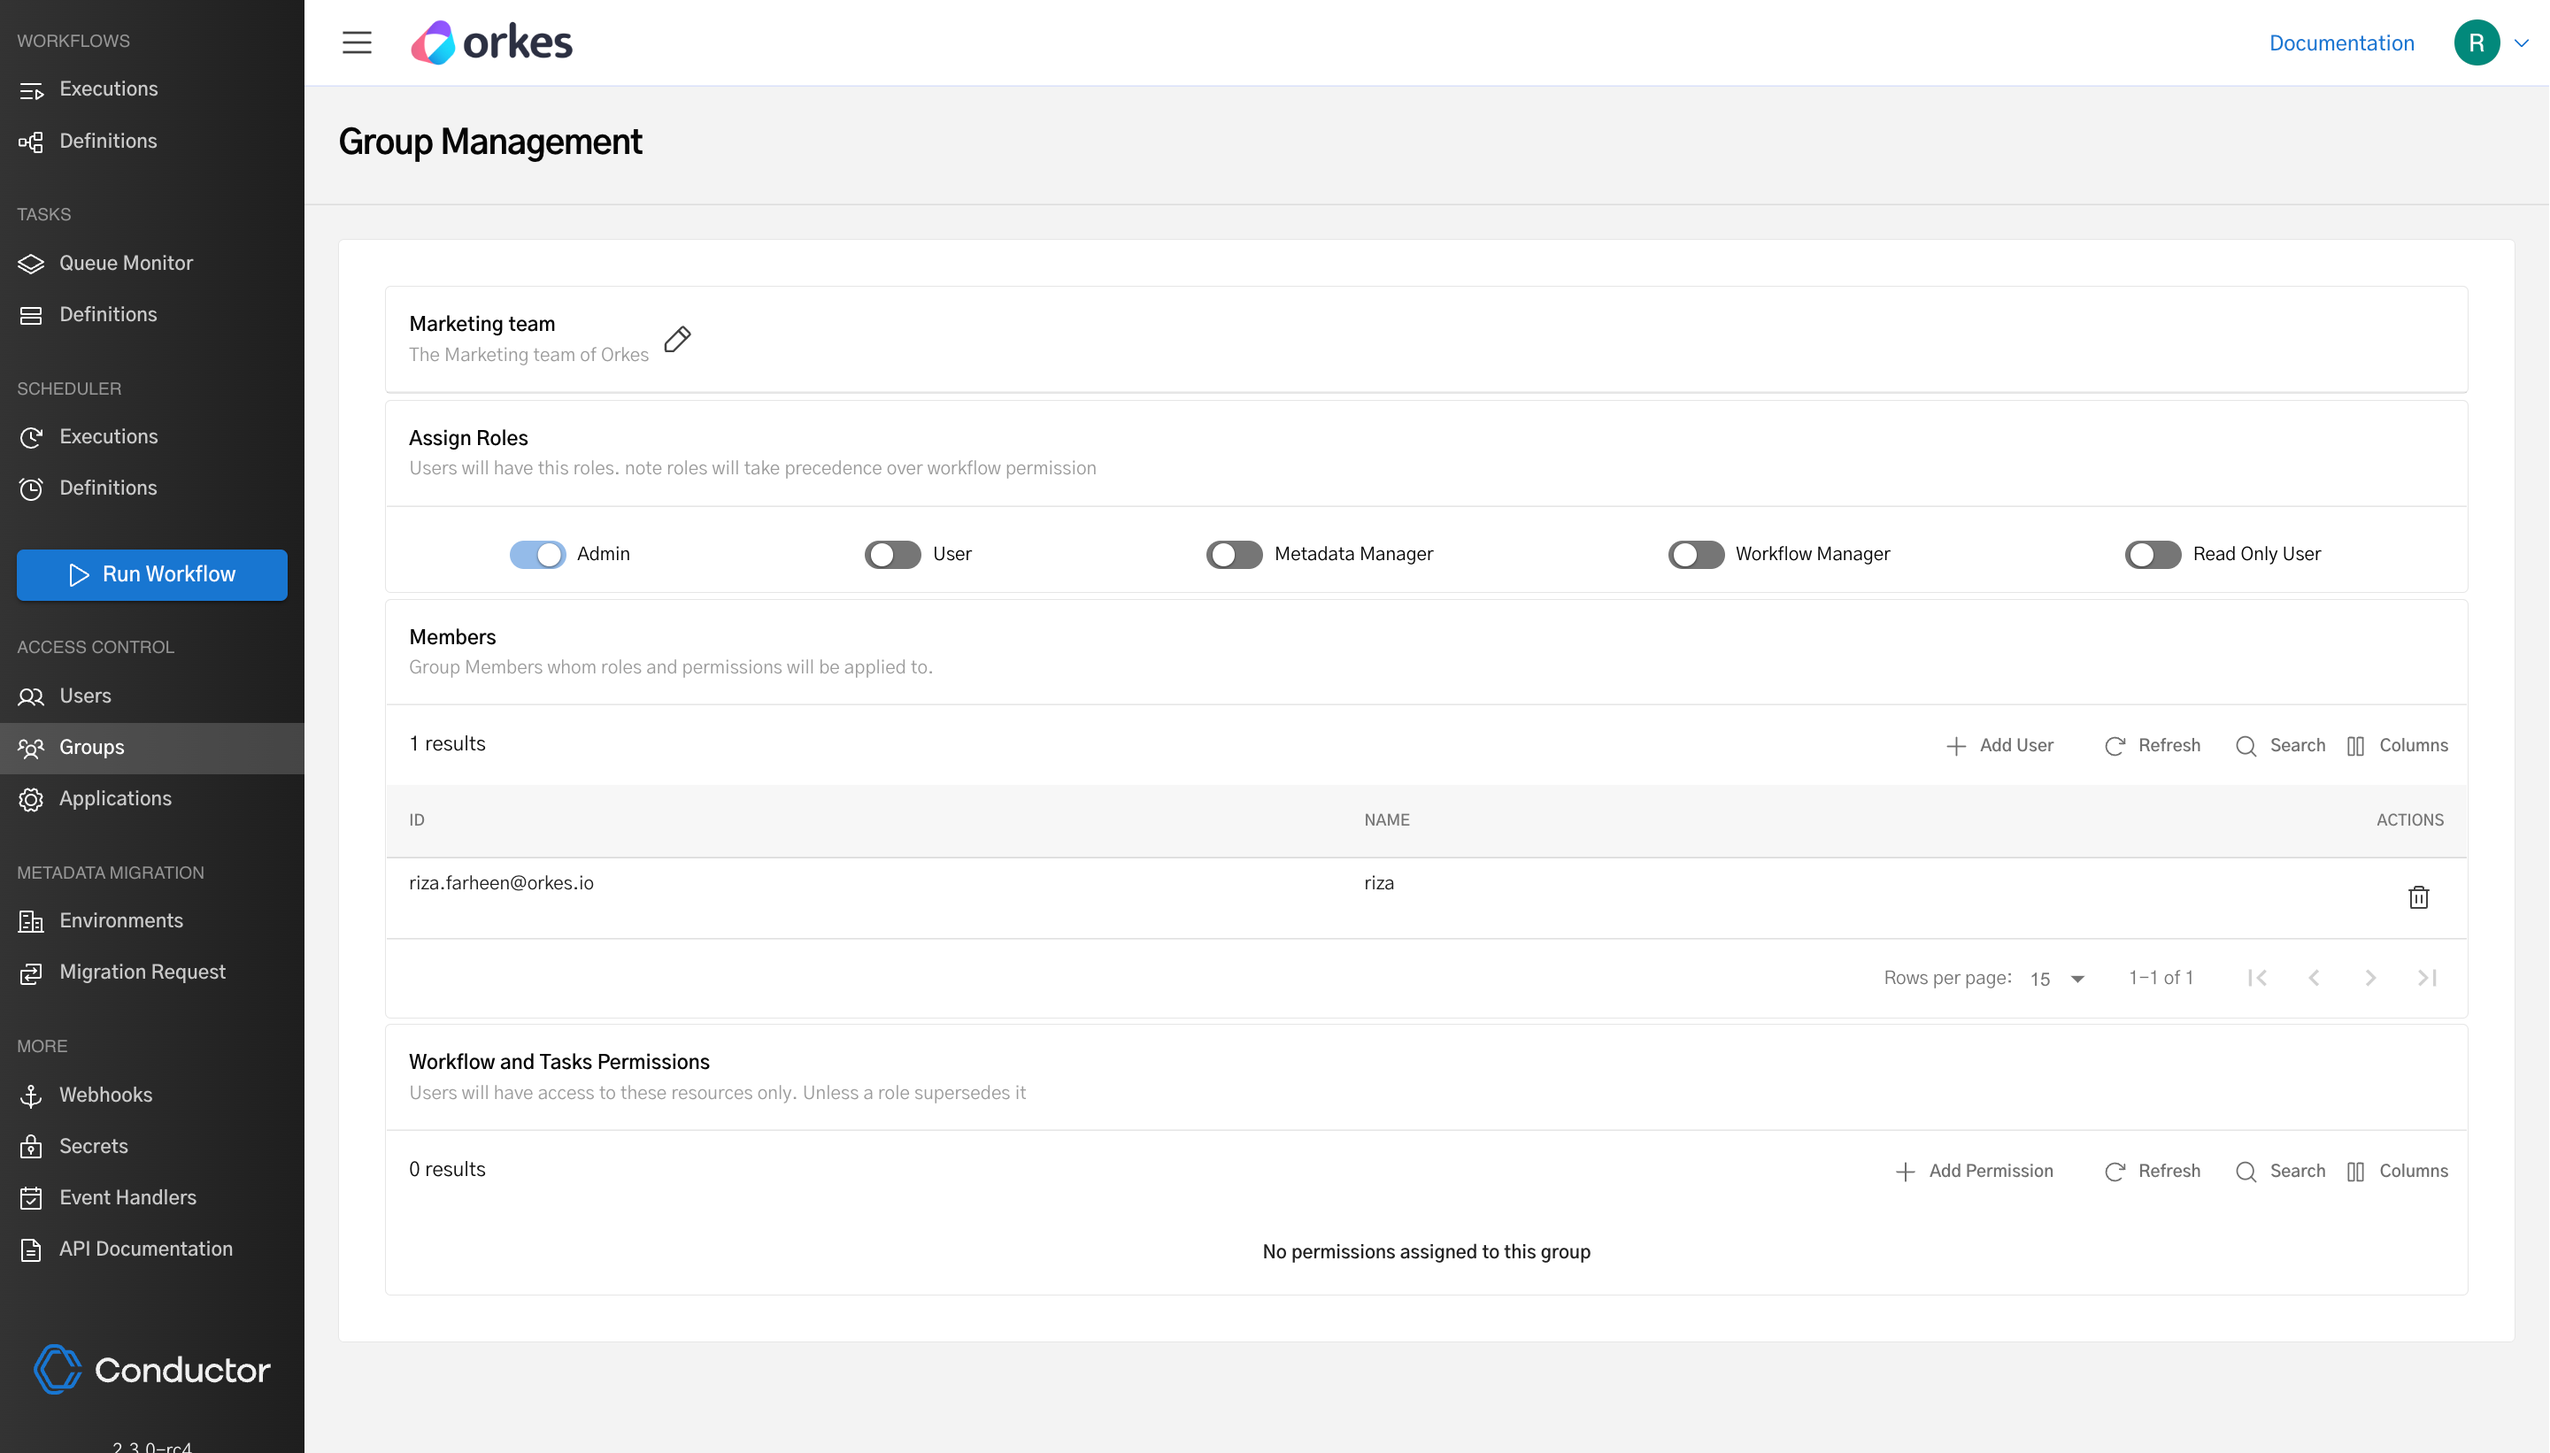
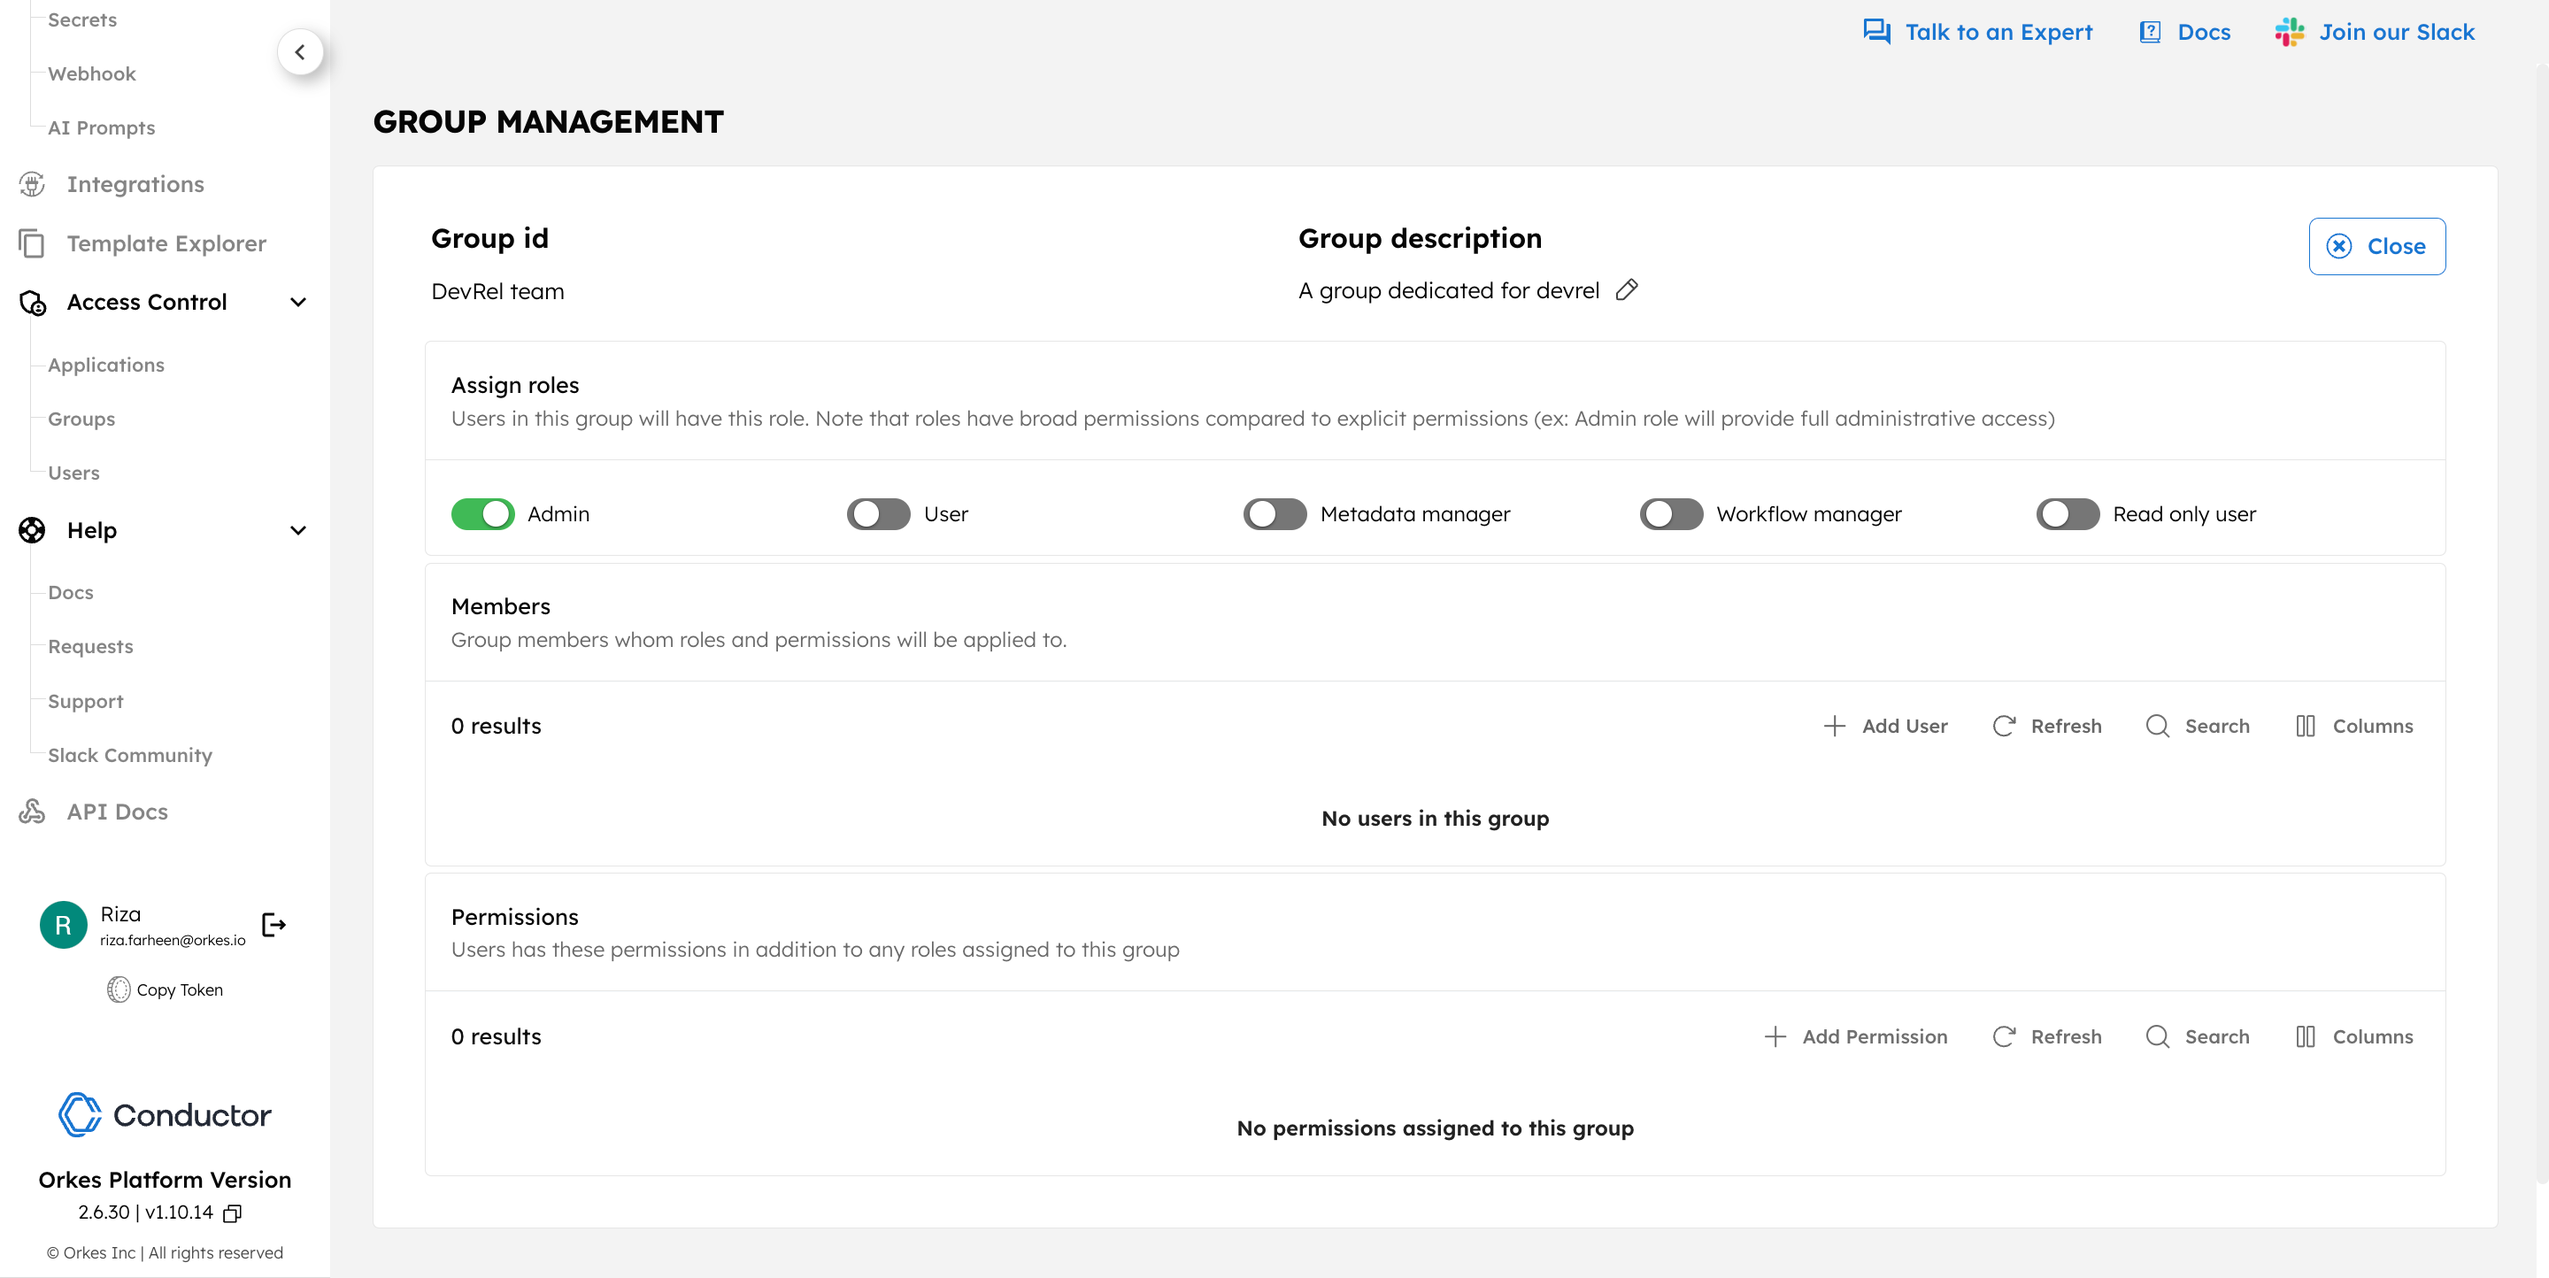
groups & users

diff --git a/docs/access-control-and-security/users-and-groups.md b/docs/access-control-and-security/users-and-groups.md
@@ -12,10 +12,10 @@ This feature is available only to the Admins of an Orkes Conductor instance.
 
 To invite a user to your Orkes Cloud instance,
 
-1. From your Conductor server, navigate to **ACCESS CONTROL > Users** from the left menu.
+1. From your Conductor server, navigate to **Access Control > Users** from the left menu.
 2. Click the **Create User** button.
-3. You need to fill in the following user details:<ul><li>**Email** - Enter the email address of the user.</li><li>**Name** - Provide the user’s name.</li><li>**Roles** - Choose the access level you wish the user to have. The available Conductor roles are *Admin*, *User*, *Metadata Manager*, *Workflow Manager*, and *Read Only User*.</li></ul>
-4. Click **Create**, and an email invitation will be sent to the user with the instructions to access the Conductor instance.
+3. You need to fill in the following user details:<ul><li>**User id** - Enter the email address of the user.</li><li>**Name** - Provide the user’s name.</li><li>**Permissions** - Choose the access level you wish the user to have. The available Conductor roles are *Admin*, *User*, *Metadata Manager*, *Workflow Manager*, and *Read Only User*.</li></ul>
+4. Click **Save**, and the user can now access the Conductor instance.
 
 ### User Roles
 
@@ -29,7 +29,7 @@ A user can have the following roles:
 
 ### Editing Users
 
-To change the access for a specific user, click on the edit button next to the user, and change the role by clicking the toggle button for the relevant roles.
+To change the permission for a specific user, click on the edit button next to the user, and update with the required permissions.
 
 <p align="center"><img src="/content/img/edit-user-roles.png" alt="Editing user roles in Conductor" width="90%" height="auto"></img></p>
 
@@ -41,23 +41,22 @@ Groups are a way to share workflows and tasks among your team quickly.
 
 ### Creating Groups
 To create a user group:
-1. From the left menu, navigate to **ACCESS CONTROL > Groups**.
-2. Click **Create Group** and provide the following details:<ul><li>**Group ID** - Provide a name to identify your group.</li><li>**Description** - Provide a suitable description for the group.</li></ul>
-3. Click **Create**.
+1. From the left menu, navigate to **Access Control > Groups**.
+2. Click **Create Group** and provide the following details:<ul><li>**Name** - Provide a name to identify your group.</li><li>**Description** - Provide a suitable description for the group.</li><li>**Permissions** - Choose the required permission for the group. The Group can take the roles *Admin*, *User*, *Metadata Manager*, *Workflow Manager* or *Read Only User*. </li></ul>
+3. Click **Save**.
 
 <p align="center"><img src="/content/img/creating-groups.png" alt="Creating Groups in Conductor" width="90%" height="auto"></img></p>
 
-4. Once the group is created, you can assign a role to the group. The Group can take the roles *Admin*, *User*, *Metadata Manager*, *Workflow Manager* or *Read Only User*. 
-5. You can add members by clicking **+Add User** from the **Members** section. You can add only the users that have already been created/invited. If the user you are looking for has not been added, you can invite and then add them to the groups.
+4. You can add members by clicking **+Add User** from the **Members** section. You can add only the users that have already been created/invited. If the user you are looking for has not been added, you can invite and then add them to the groups.
 
-**Workflow and Tasks Permissions** is an additional section where you can limit the group members' access to the permitted workflows, tasks, secrets & tags.
+**Permissions** is an additional section where you can limit the group members' access to the permitted workflows, tasks, secrets, tags, domains, integrations & prompts.
 
-6. Click **+Add Permission**, and you can choose the group to have access to selected Workflows/Tasks/Secrets/Tags/Domains. Permissions that can be granted include Read, Create, Update, Execute & Delete.
+6. Click **+Add Permission**, and you can choose the group to have access to selected Workflows/Tasks/Secrets/Tags/Domains/Integrations/Prompts. Permissions that can be granted include Read, Create, Update, Execute & Delete.
 
 <p align="center"><img src="/content/img/adding-permissions-for-applications.png" alt="Granting access to specific tasks and workflows" width="90%" height="auto"></img></p>
 
 :::note
-Even if certain permissions are granted under the **Workflow and Tasks Permissions** section, the chosen role supersedes these permissions. This means that if both the **Workflow and Tasks Permissions** section is configured and a role is selected, the role always supersedes the other.
+Even if certain permissions are granted under the **Permissions** section, the chosen role supersedes these permissions. This means that if both the **Permissions** section is configured and a role is selected, the role always supersedes the other.
 :::
 
 ### Group Roles
